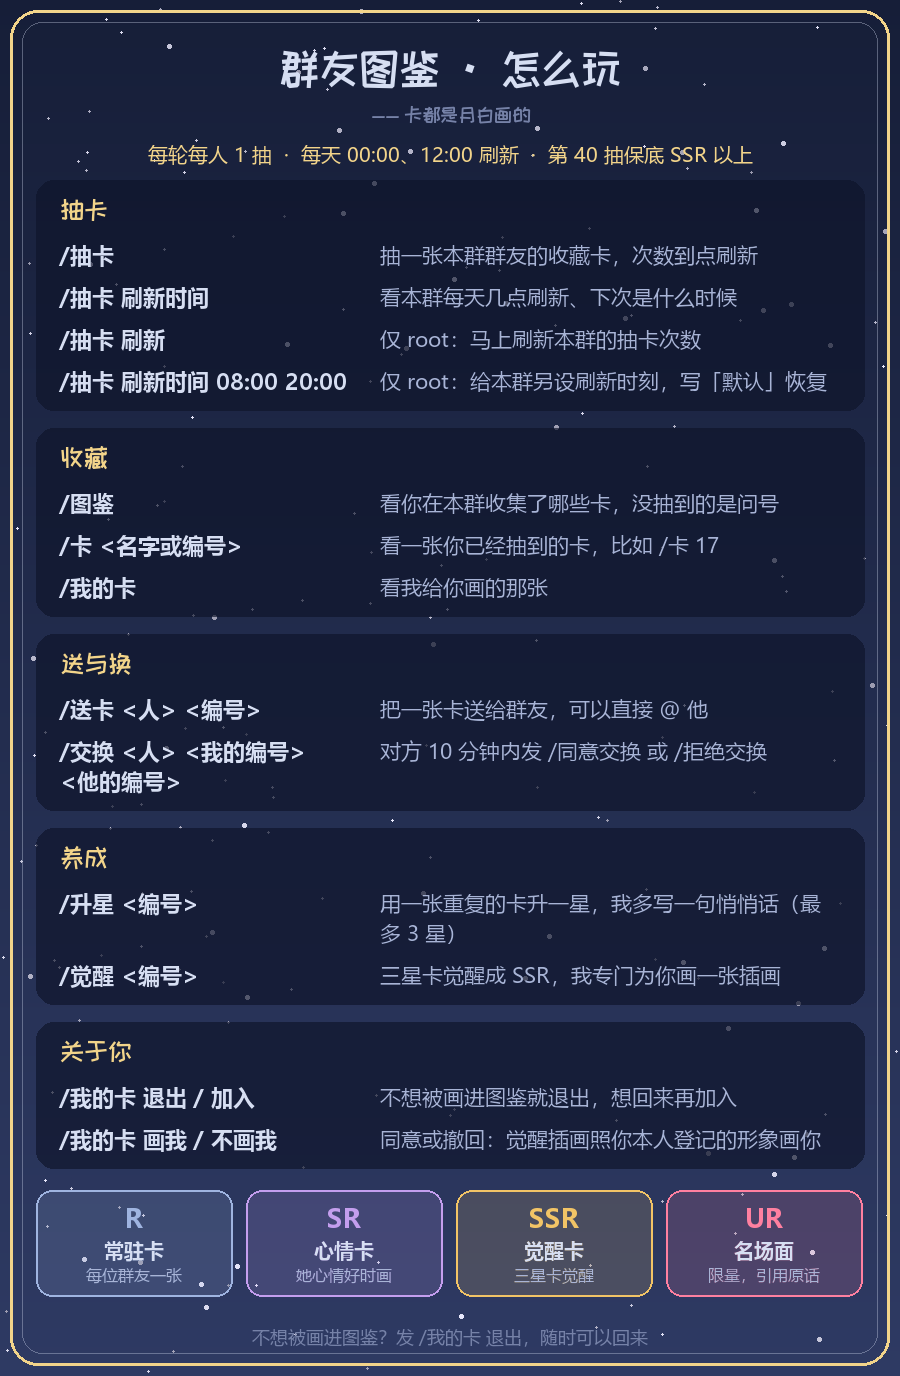
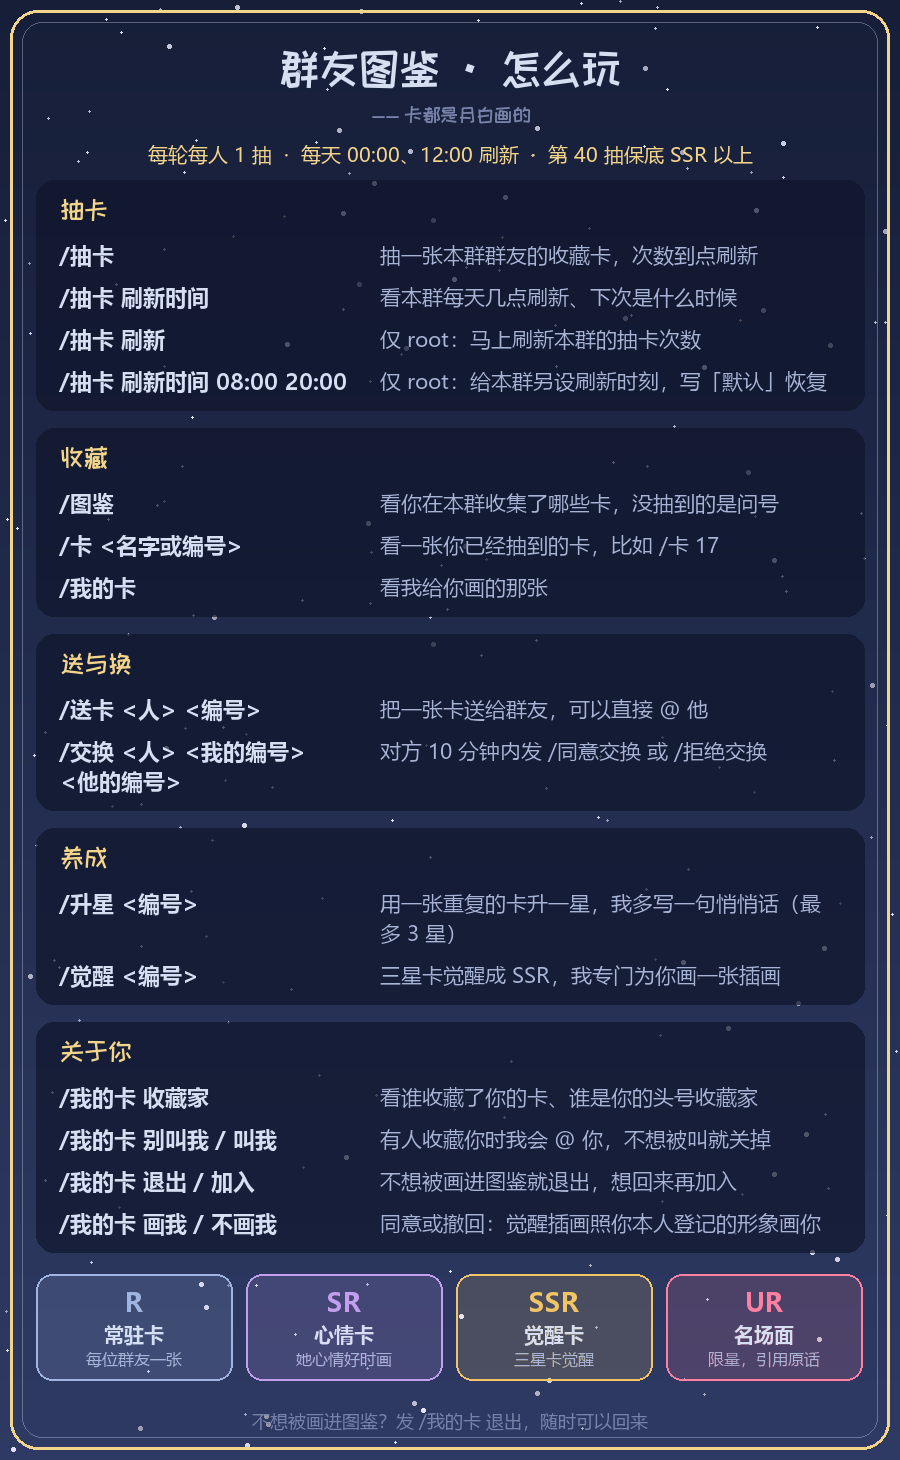
docs(gacha): 新增「被画的人」：收藏里程碑、@ 提醒与收藏家名单

diff --git a/extensions/gacha.md b/extensions/gacha.md
@@ -21,7 +21,9 @@
 | `/交换 <人> <我的编号> <他的编号>` | 提出换卡（`/交换 @小红 17 换 32`），对方 10 分钟内发 `/同意交换` 或 `/拒绝交换` |
 | `/升星 <编号>` | 用一份重复的卡把这张升一星（最多 3 星），她会在你那张上多写一句只给你的「悄悄话」 |
 | `/觉醒 <编号>` | 三星卡觉醒成 SSR 超级卡：她专门为你画一张插画，画好在群里叫你；只属于你，不能送也不能换 |
-| `/我的卡` | 看她给你画的那张 |
+| `/我的卡` | 看她给你画的那张，卡面底下写着有几个人收藏了你、头号收藏家是谁 |
+| `/我的卡 收藏家` | 看谁收藏了你的卡：头号收藏家排第一，最多列 5 位 |
+| `/我的卡 别叫我` | 有人收藏你时她不再 @ 你，只在回复里提一句；`/我的卡 叫我` 恢复 |
 | `/我的卡 退出` | 不想被画进图鉴：画了你的卡（包括你出演的名场面）连同大家手里的那几张一起删掉，以后也不再画你 |
 | `/我的卡 加入` | 回到图鉴，之后她会重新给你画一张 |
 | `/我的卡 画我` | 同意她画你的觉醒卡插画时**照你本人登记的形象**把你画进去（见下面的[画我](#画我)） |
@@ -58,6 +60,24 @@
 - **在后台慢慢画**：`/觉醒` 只排队，马上回一句；画图任务每 30 秒取一张，画好后她在群里说一句并附上新卡面。每张最多试两次，都失败就作罢并告诉本人（什么都没扣，可以再 `/觉醒`）。
 - **有每日额度**：`art_per_day`（默认 3，觉醒与名场面合计），用完的排到第二天；设为 0 就不画插画，也不能觉醒。插件生图不计入部署方的人物生图额度。
 - 插画卡比普通卡高 120 像素，多出的部分全部给主图。
+
+## 被画的人
+
+被画进图鉴的人也该知道自己被谁收藏了。有人抽到、或者收到别人送的一张画着你的卡（常驻卡、心情卡；名场面卡不算），而且这是一件新鲜事，她就会在那条回复里顺便告诉你：
+
+| 里程碑 | 她会说 |
+| --- | --- |
+| 第一次被收藏 | 你的卡第一次被人收进图鉴，第一个收藏你的是谁 |
+| 第 3、5、10、20 个收藏家 | 你的卡已经有几个人收藏了 |
+| 头号收藏家换人 | 谁刚成了你的头号收藏家 |
+| 升到满星 | 谁把画着你的卡升到了满星 |
+| 觉醒 | 谁把你的卡觉醒了（在插画画好的那条消息里说） |
+
+- **每个里程碑只说一次**：同一个人当了两次头号收藏家，只在他第一次当上时说。
+- **会 @ 你**：抽卡、送卡、升星的那条回复会 @ 卡上的人（觉醒画好的那条是她主动发的，只提名字）。每人每天最多被 @ 一次，同一天的其他里程碑她照样说，只是不再 @；`/我的卡 别叫我` 之后一律不 @。她得在群里见过你说话、认得你的 QQ 号，才 @ 得到你。
+- **头号收藏家**怎么排：觉醒过你的卡的优先，其次星级高，再其次份数多，最后是收得早。你自己手里的你不算。
+- 不额外调用模型：这些事作为“另外”的情况交给她，在那一句回复里一起说。
+- `/我的卡 退出` 会清掉你的里程碑记录；回来后从头算起。
 
 ## 画我
 
@@ -144,10 +164,10 @@
 
 ```
 {persona}/artifacts/gacha/
-├── gacha.db        # 卡池、收藏（份数、星级、悄悄话）、抽卡次数与保底、各群刷新设置与手动刷新、交换、画图任务、退出名单、「画我」的同意（SQLite）
+├── gacha.db        # 卡池、收藏（份数、星级、悄悄话）、抽卡次数与保底、各群刷新设置与手动刷新、交换、画图任务、退出名单、「画我」的同意、被画的人已经听说过的里程碑与“别叫我”（SQLite）
 ├── art/            # 觉醒卡与名场面的插画
 ├── announce/       # 插画画好时发到群里的卡面
 └── avatars/        # 群友 QQ 头像缓存，一周过期
 ```
 
-每日画卡额度（`mint_ledger`）、每日插画额度（`art_ledger`）、每个群当天是否判断过名场面（`moment_checks`）、她的台词本（`script`，开不了口时的兜底）与当天是否已经试写过（`script_tried`）记在插件数据文件 `_plugin_gacha_data.json` 里。第一期留下的 `gacha.db` 打开时会自动补上新列，已有的卡都按常驻卡处理。「画我」的授权本身、照本人画的任务与结果记在框架的视觉资产系统里，`gacha.db` 只记授权编号，以及哪张卡的插画是照本人画的（`art_likeness`，撤回时据此撤下）。
+每日画卡额度（`mint_ledger`）、每日插画额度（`art_ledger`）、每个群当天是否判断过名场面（`moment_checks`）、她的台词本（`script`，开不了口时的兜底）与当天是否已经试写过（`script_tried`）、今天已经 @ 过谁（`fan_pings`，只留当天）记在插件数据文件 `_plugin_gacha_data.json` 里。第一期留下的 `gacha.db` 打开时会自动补上新列，已有的卡都按常驻卡处理。「画我」的授权本身、照本人画的任务与结果记在框架的视觉资产系统里，`gacha.db` 只记授权编号，以及哪张卡的插画是照本人画的（`art_likeness`，撤回时据此撤下）。
